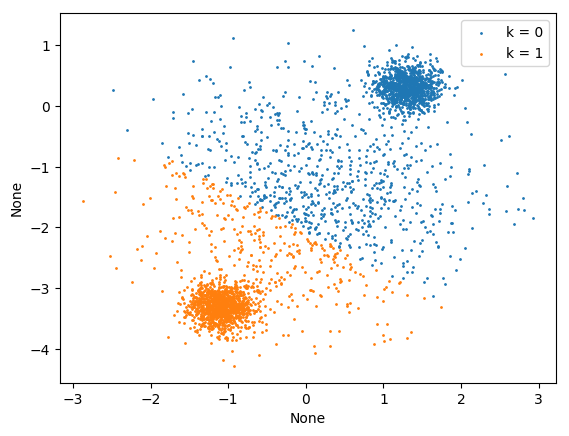
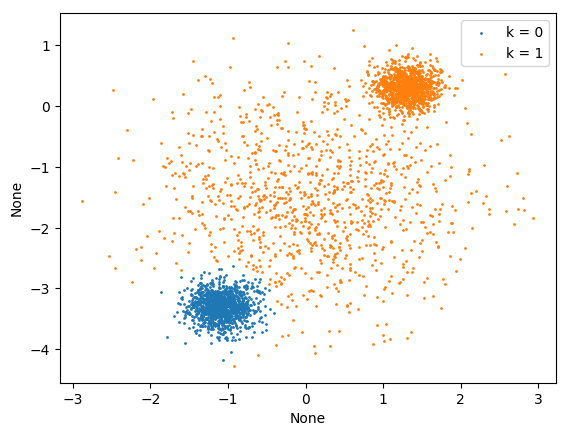
adding test results

diff --git a/experiments.py b/experiments.py
@@ -5,7 +5,7 @@ import tensorflow as tf
 
 import starter_kmeans as km
 import starter_gmm as gmm
-from helper import load_data
+from helper import *
 from plotting import *
 
 
@@ -91,26 +91,32 @@ class Part1(unittest.TestCase):
 
 class Part2(unittest.TestCase):
 
-    def test_1(self):   # part 2.2 q1
+    def test_1(self):   # part2.2 q1
         self.train = load_data(use_val=False, high_dim=False)
         data_plot_2d(self.train, os.path.join('results', '2_1', 'data.png'))
 
         ks = [3]
         metrics = [{'Training loss': []} for _ in ks]
         cluster_assignments = []
-        epochs = 200
-        lr = 0.05
+        epochs = 500
+        lr = 0.01
 
         for k, metric in zip(ks, metrics):
             print('Training with k=%d' % k)
             tf.reset_default_graph()
             x, mu, sigma, pi, assignments, loss, optimizer_op = gmm.build_graph(self.train.shape[-1], k, lr)
             sess = tf.Session()
-            sess.run(tf.global_variables_initializer())
+            r = sess.run(tf.global_variables_initializer())
             for _ in tqdm(range(0, epochs + 1)):
                 train_loss, _ = sess.run([loss, optimizer_op], feed_dict={x: self.train})
                 metric['Training loss'].append(train_loss)
             cluster_assignments.append(sess.run(assignments, feed_dict={x: self.train}))
+            mur = mu.eval(session=sess)
+            sigmar = sigma.eval(session=sess)
+            pir = pi.eval(session=sess)
+            print('mu = ', mur)
+            print('sigma = ', sigmar)
+            print('pi = ', pir)
 
         for title in metrics[0]:
             line_plot(list(range(0, epochs + 1)), [m[title] for m in metrics],
@@ -129,16 +135,15 @@ class Part2(unittest.TestCase):
                 f.write(' '.join(assigned_percentages))
 
 
-
-    def test_2(self):
+    def test_2(self): #part2.2 q2
         self.train, self.val = load_data(use_val=True, high_dim=False)
 
         ks = [1, 2, 3, 4, 5]
         metrics = [{'Training loss': [], 'Validation loss': []} for _ in ks]
         cluster_assignments_train = []
         cluster_assignments_val = []
-        epochs = 200
-        lr = 0.05
+        epochs = 500
+        lr = 0.01
 
         for k, metric in zip(ks, metrics):
             print('Training with k=%d' % k)
@@ -214,7 +219,7 @@ class Part2(unittest.TestCase):
         ks = [5, 10, 15, 20, 30]
         metrics = [{'Training loss': []} for _ in ks]
         cluster_assignments = []
-        epochs = 200
+        epochs = 500
         lr = 0.05
 
         for k, metric in zip(ks, metrics):

diff --git a/starter_gmm.py b/starter_gmm.py
@@ -38,13 +38,13 @@ def log_posterior(log_pdf, log_pi):
 
     # Outputs
     # log_post: N X K
-
-    return log_pdf + tf.reshape(log_pi, [-1]) - hlp.reduce_logsumexp(log_pdf + tf.reshape(log_pi, [-1]), reduction_indices=1, keep_dims = True)
+    anormalized = log_pdf + tf.reshape(log_pi, [-1])
+    return anormalized - hlp.reduce_logsumexp(anormalized, reduction_indices=1, keep_dims = True)
 
 
 def neg_log_prob(x, mu, sigma, log_pi):
     log_pdf = log_gauss_pdf(x, mu, sigma) #pdf
-    log_likelihood = tf.reshape(hlp.reduce_logsumexp(log_pdf+tf.reshape(log_pi, [-1])), [-1, 1])
+    log_likelihood = hlp.reduce_logsumexp(log_pdf + tf.reshape(log_pi, [-1]))
     return -1 * log_likelihood
 
 
@@ -53,9 +53,12 @@ def build_graph(d, k, lr):
     mu = tf.Variable(initial_value=tf.random_normal(shape=[k, d]))
     sigma = tf.Variable(initial_value=tf.random_normal(shape=[k, 1]))
     pi = tf.Variable(initial_value=tf.random_normal(shape=[k, 1]))
+    e_sigma = tf.exp(sigma)
     log_pi = hlp.logsoftmax(tf.reshape(pi,[-1]))
-    loss = neg_log_prob(x, mu, tf.exp(sigma), log_pi)
-    assignments = tf.argmin(distance_func(x, mu), axis=-1)
+    loss = neg_log_prob(x, mu, e_sigma, log_pi)
+    log_pdf = log_gauss_pdf(x, mu, e_sigma)
+    log_post = log_posterior(log_pdf, log_pi)
+    assignments = tf.argmax(log_post, axis=1)
     loss = tf.reduce_sum(loss)
     optimizer = tf.train.AdamOptimizer(learning_rate=lr, beta1=0.9, beta2=0.99, epsilon=1e-5)
     optimizer_op = optimizer.minimize(loss)
